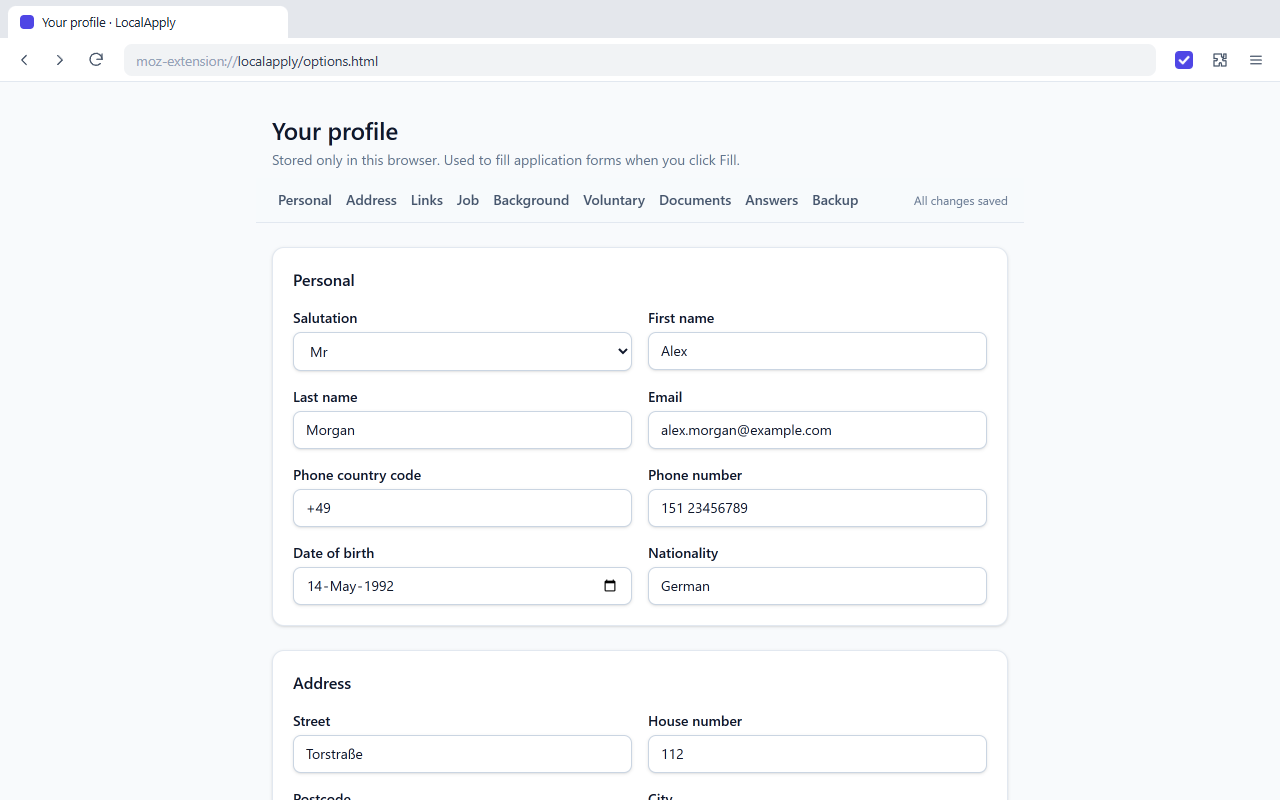
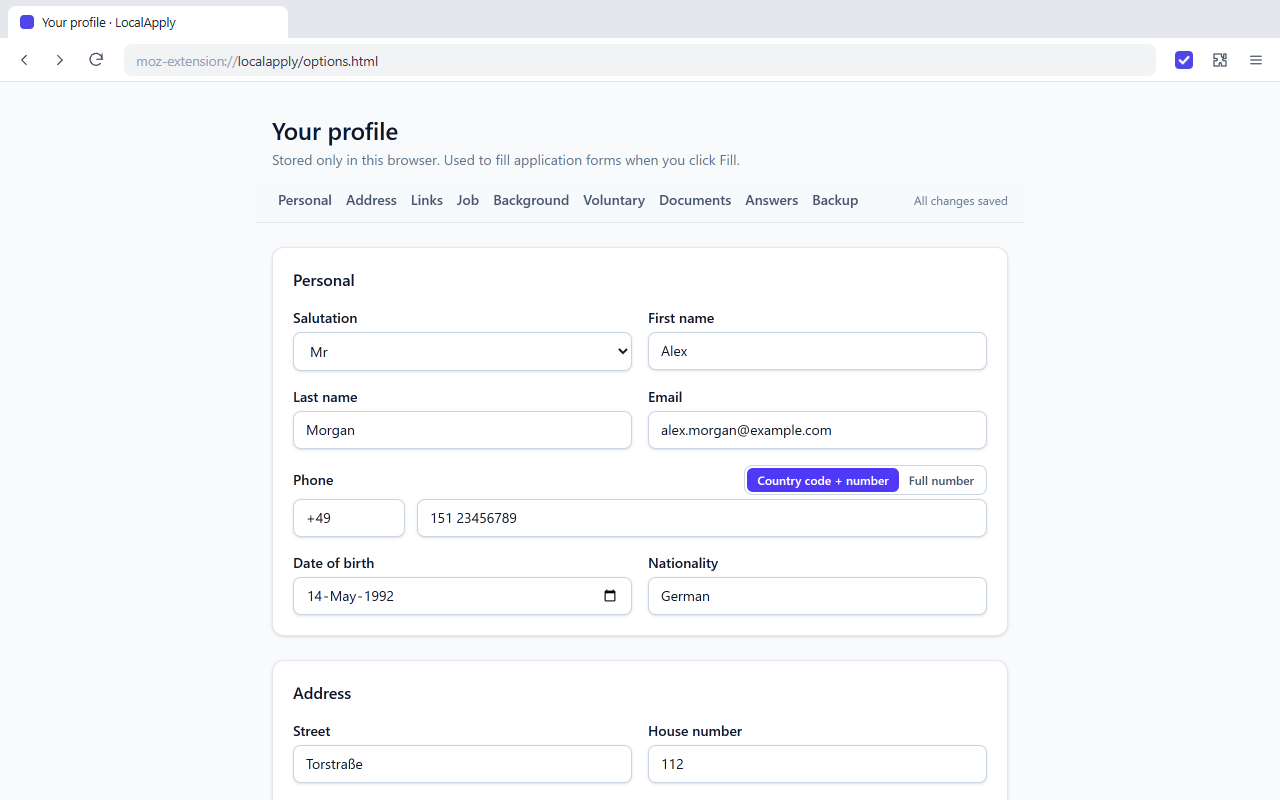
Prepare v0.3.0

diff --git a/CHANGELOG.md b/CHANGELOG.md
@@ -6,6 +6,16 @@ Add entries under **Unreleased** as you work. `npm run release` requires a secti
 
 ## [Unreleased]
 
+## [0.3.0] - 2026-10-16
+
+### Added
+
+- The profile page takes the phone number either as country code and number in two boxes, or as one full number such as +48791532218. A full number is split into code and number, so forms that ask either way are still filled.
+
+### Changed
+
+- Dates go into forms as DD-MM-YYYY when neither the field nor the page shows which order it expects (was YYYY-MM-DD). Native date pickers still get the ISO date they require.
+
 ## [0.2.1] - 2026-10-16
 
 ### Changed
